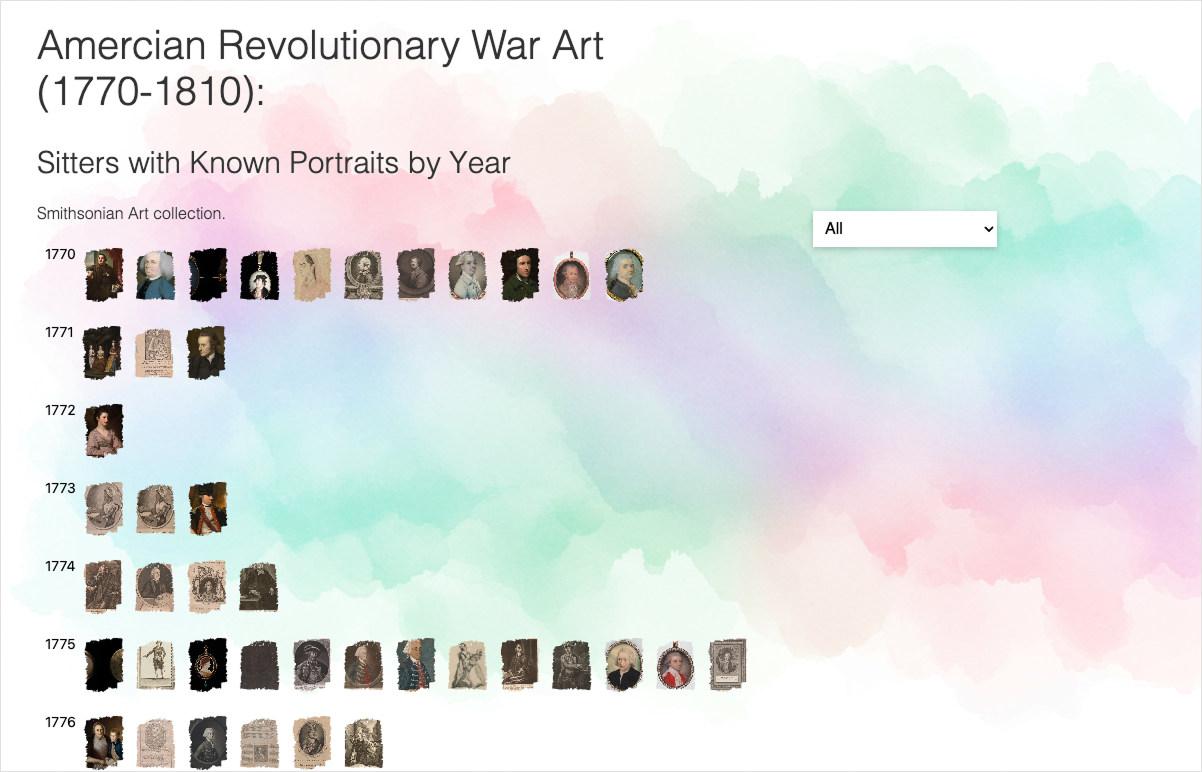
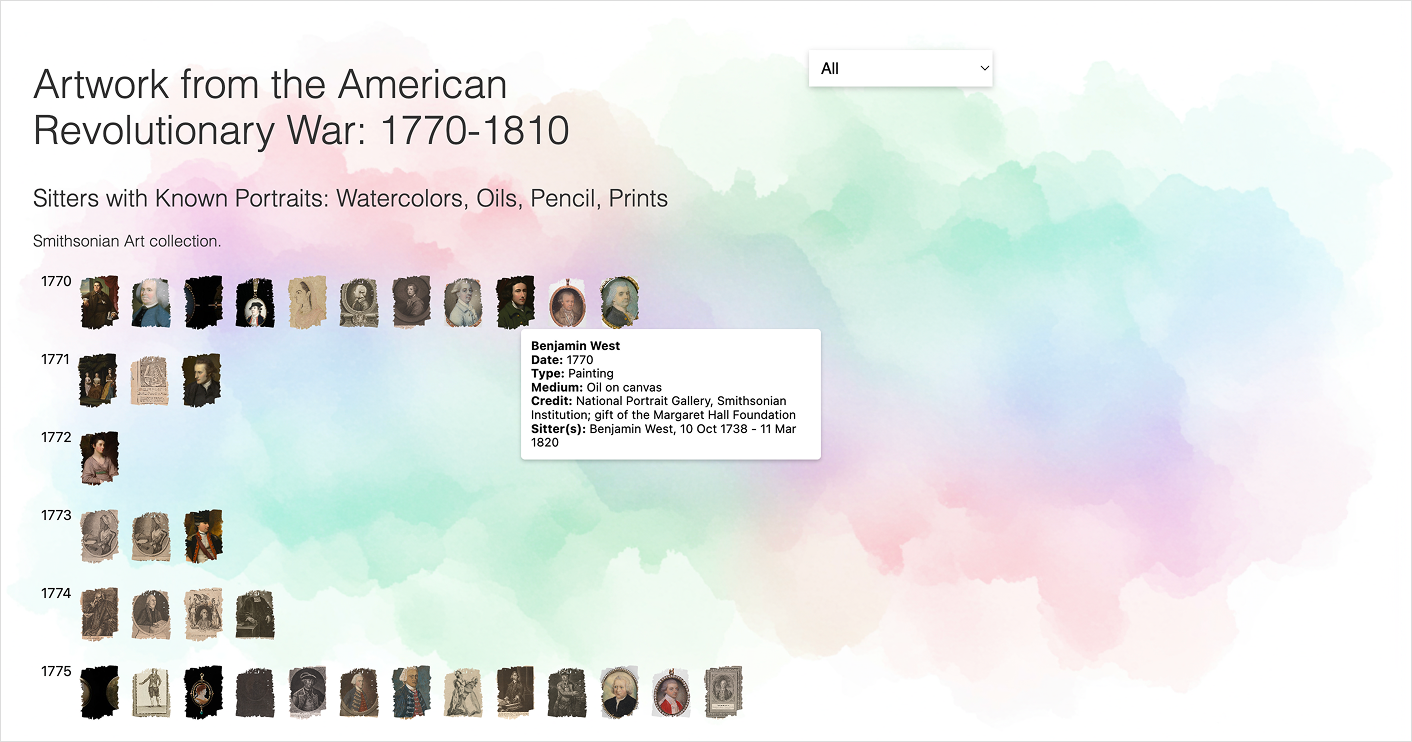
formatting and text changes

diff --git a/01C-Prototype/index.html b/01C-Prototype/index.html
@@ -13,8 +13,8 @@
 
 <body class="layout">
     <div id="title">
-        <h1>Artwork from the Amercian Revolutionary War: 1770-1810</h1>
-        <h2>Sitters with Known Portraits by Year: Watercolors to Oils</h2>
+        <h1>Artwork from the American Revolutionary War: 1770-1810</h1>
+        <h2>Sitters with Known Portraits: Watercolors, Oils, Pencil, Prints</h2>
         <p>Smithsonian Art collection.</p>
     </div>
     <div>

diff --git a/01C-Prototype/README.md b/01C-Prototype/README.md
@@ -1,14 +1,15 @@
 # major-studio-1
 
-## Artwork from the Amercian Revolutionary War: 1770-1810
+## Artwork from the American Revolutionary War: 1770-1810
 
-### Sitters with Known Portraits by Year: Watercolors to Oils
+### Sitters with Known Portraits: Watercolors, Oils, Pencil, Prints
 
 Description: This visualization presents a vertical timeline from 1770 to 1810, showing when artworks were created in four mediums: watercolor, oil, pencil, and prints. Viewers can filter by medium to see how each type of painting appears across the decades, offering a clear view of artistic practices during the Revolutionary era and its aftermath.
 
-![Timeline with Tooltip: Paintings Details](screenshots/screenshot2.png)
+![Timeline with Tooltip: Paintings Details](screenshots/screenshot1.png)
+<br />
 
-![Timeline with Artwork Preview: Paintings by Medium](screenshots/screenshot3.png)
+![Timeline with Artwork Preview: Paintings by Medium](screenshots/screenshot2.png)
 
 ---
 
